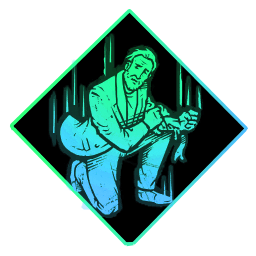
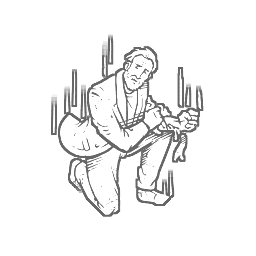
Build de tótems con Estado de flujo; verificación final, validador e informe
- Tótems: entra Estado de flujo (Kwon Tae-young), sale Caza menor
- Iconos de Giro argumental y Estado de flujo al estilo blanco
- Términos es-MX: Desesperanza, distintivo, presiona, acción destacada
- Correcciones de la verificación final (Ganas de vivir, Tenacidad, Resiliencia, usos, textos de builds)
- validar.py: reglas de Agotado, Resistencia, tótems, parejas que se anulan, iconos y términos
- INFORME.md con el estado y los pendientes

diff --git a/datos.js b/datos.js
@@ -19,7 +19,7 @@ window.PERKS = {
   },
   resilience: {
     es: "Resiliencia", en: "Resilience", icon: "iconPerks_resilience.png", dueno: "General",
-    efecto: "Estando herido: <b>+7/8/9 %</b> de velocidad al reparar, curar, saltar ventanas, descolgar, sabotear, purificar/bendecir y abrir puertas y cofres.",
+    efecto: "Estando herido: <b>+7/8/9 %</b> de velocidad al reparar, curar, saltar, descolgar, sabotear, purificar/bendecir y abrir puertas y cofres.",
     coste: "—", uso: "2º · 23,35 %", cambio: "10.2.0 (antes 3/6/9 %)", estado: "ok",
   },
   woo: {
@@ -34,13 +34,13 @@ window.PERKS = {
   },
   deadhard: {
     es: "Fajador", en: "Dead Hard", icon: "iconPerks_DeadHard.png", dueno: "David King",
-    efecto: "Tras ser descolgado, herido y corriendo, pulsa el botón de habilidad: <b>Resistencia durante 0,5 s</b> (aguantas un golpe sin caer).",
+    efecto: "Tras ser descolgado, herido y corriendo, presiona el botón de habilidad activa: <b>Resistencia durante 0,5 s</b> (aguantas un golpe sin caer).",
     coste: "Agotado 60/50/40 s", uso: "5º · 19,08 %", cambio: "6.7.0", estado: "ok",
   },
   wtl: {
     es: "Ganas de vivir", en: "Will to Live", icon: "iconPerks_decisiveStrike.png", dueno: "General (con el capítulo de Halloween: Golpe decisivo, de Laurie)",
-    efecto: "Durante <b>40/50/60 s</b> tras ser descolgado, si el asesino te agarra o te carga, supera una prueba de habilidad para <b>aturdirlo 4 s</b> y escapar. Te conviertes en la Obsesión. Una vez por partida.",
-    coste: "Se desactiva con acciones llamativas, al completarse todos los generadores o tras usarla", uso: "6º · 16,8 %", cambio: "9.4.0 (pasa a ser general y cambia de nombre)", estado: "ok",
+    efecto: "Durante <b>40/50/60 s</b> tras ser descolgado, si el asesino te carga, supera una prueba de habilidad para <b>aturdirlo 4 s</b> y escapar. Te conviertes en la Obsesión. Una vez por partida.",
+    coste: "Se desactiva con acciones destacadas, al completarse todos los generadores o tras usarla", uso: "6º · 16,80 %", cambio: "9.4.0 (pasa a ser general y cambia de nombre)", estado: "ok",
     info: "Si tienes el capítulo de Halloween, en tu juego aparece como <b>Golpe decisivo</b>, ventaja única de Laurie, con el mismo efecto. Sin el capítulo es la ventaja general <b>Ganas de vivir</b> (Will to Live), nombre comprobado en el cliente en español de México.",
   },
   adrenaline: {
@@ -61,7 +61,7 @@ window.PERKS = {
   sprint: {
     es: "Esprint", en: "Sprint Burst", icon: "iconPerks_sprintBurst.png", dueno: "Meg Thomas",
     efecto: "Al empezar a correr: <b>+50 % de Celeridad durante 2 s</b>.",
-    coste: "Agotado 60/50/40 s", uso: "13º · 6,70 %", cambio: "10.1.0 (3 → 2 s)", estado: "ok",
+    coste: "Agotado 60/50/40 s", uso: "14º · 6,70 %", cambio: "10.1.0 (3 → 2 s)", estado: "ok",
   },
   wellmake: {
     es: "Sobreviviremos", en: "We'll Make It", icon: "iconPerks_wellMakeIt.png", dueno: "General",
@@ -80,7 +80,7 @@ window.PERKS = {
   },
   hyperfocus: {
     es: "Hiperconcentración", en: "Hyperfocus", icon: "iconPerks_Hyperfocus.png", dueno: "Rebecca Chambers",
-    efecto: "Cada prueba de habilidad <b>Excelente</b> al reparar o curar da 1 ficha (máx. 6). Por ficha: +4 % de probabilidad y velocidad de la aguja y <b>+10/20/30 %</b> al bonus de la prueba. Pierdes las fichas con una prueba Buena, un fallo o si paras.",
+    efecto: "Cada prueba de habilidad <b>Excelente</b> al reparar o curar da 1 distintivo (máx. 6). Por distintivo: +4 % de probabilidad y velocidad de la aguja y <b>+10/20/30 %</b> al bonus de la prueba. Pierdes los distintivos con una prueba Buena, un fallo o si paras.",
     coste: "—", uso: "19º · 5,01 %", cambio: "Sin cambios recientes", estado: "ok",
   },
   prove: {
@@ -105,12 +105,12 @@ window.PERKS = {
   },
   tenacity: {
     es: "Tenacidad", en: "Tenacity", icon: "iconPerks_tenacity.png", dueno: "David Tapp",
-    efecto: "Derribado: puedes <b>arrastrarte y recuperarte a la vez</b>, te arrastras con <b>+30/40/50 % de Celeridad</b>, tus gruñidos son un 75 % más bajos y no se puede revelar tu aura.",
+    efecto: "Derribado: puedes <b>arrastrarte y recuperarte a la vez</b>, te arrastras con <b>+30/40/50 % de Celeridad</b>, tus gruñidos son un 75 % más bajos y el asesino no ve tu aura.",
     coste: "—", uso: "79º · 1,08 %", cambio: "9.3.0", estado: "ok",
   },
   reassurance: {
     es: "Consuelo", en: "Reassurance", icon: "iconPerks_Reassurance.png", dueno: "Rebecca Chambers",
-    efecto: "A 6 m de un sobreviviente colgado, pulsa el botón de habilidad para <b>pausar su sacrificio 20/25/30 s</b>.",
+    efecto: "A 6 m de un sobreviviente colgado, presiona el botón de habilidad activa para <b>pausar su sacrificio 20/25/30 s</b>.",
     coste: "Una vez por sobreviviente y gancho", uso: "95º · 0,87 %", cambio: "6.2.0", estado: "ok",
   },
   powerstruggle: {
@@ -130,23 +130,24 @@ window.PERKS = {
   },
   innerstrength: {
     es: "Fuerza interior", en: "Inner Strength", icon: "iconPerks_innerStrength.png", dueno: "Nancy Wheeler",
-    efecto: "Cada tótem que purificas te da una carga. Herido, escóndete <b>10/9/8 s</b> en un casillero para gastarla y <b>curarte un estado de salud al instante</b>.",
-    coste: "Una curación por tótem purificado", uso: "37º · 2,44 %", cambio: "7.4.0 (recupera el nombre)", estado: "ok",
+    efecto: "Cada tótem que purificas te da una carga. Herido y sin sufrir Desesperanza, escóndete <b>10/9/8 s</b> en un casillero para gastarla y <b>curarte un estado de salud al instante</b>.",
+    coste: "Una curación por tótem purificado", uso: "38º · 2,44 %", cambio: "7.4.0 (recupera el nombre)", estado: "ok",
   },
   counterforce: {
     es: "Contramedida", en: "Counterforce", icon: "iconPerks_Counterforce.png", dueno: "Jill Valentine",
-    efecto: "Empiezas con 1 ficha y ganas 1 por cada tótem purificado: purificas un <b>25 % más rápido por ficha</b>. Tras purificar, ves el aura del <b>tótem más lejano</b> durante 10/12/14 s.",
+    efecto: "Empiezas con 1 distintivo y ganas 1 por cada tótem purificado: purificas un <b>25 % más rápido por distintivo</b>. Tras purificar, ves el aura del <b>tótem más lejano</b> durante 10/12/14 s.",
     coste: "—", uso: "87º · 0,99 %", cambio: "9.0.0", estado: "ok",
-  },
-  smallgame: {
-    es: "Caza menor", en: "Small Game", icon: "iconPerks_smallGame.png", dueno: "General",
-    efecto: "Ves el aura de los <b>tótems a 10/11/12 m</b>.",
-    coste: "—", uso: "110º · 0,59 %", cambio: "10.2.0 (rediseño: ahora muestra el aura de los tótems)", estado: "ok",
   },
   calmspirit: {
     es: "Espíritu calmado", en: "Calm Spirit", icon: "iconPerks_calmSpirit.png", dueno: "Jake Park",
     efecto: "No espantas a los cuervos ni gritas de dolor. Bendices, purificas y abres cofres <b>en silencio</b> y un <b>8/9/10 % más rápido</b>.",
     coste: "—", uso: "100º · 0,76 %", cambio: "10.2.0 (antes un 40/35/30 % más lento)", estado: "ok",
+  },
+  flowstate: {
+    es: "Estado de flujo", en: "Flow State", icon: "iconPerks_FlowState.png", dueno: "Kwon Tae-young",
+    efecto: "Ganas 1 distintivo por cada generador completado (máx. 5). Por distintivo, <b>bendices y purificas tótems, curas y descuelgas un 13/14/15 % más rápido</b>.",
+    coste: "—", uso: "60º · 1,52 %", cambio: "10.2.0 (antes 8/9/10 % por distintivo)", estado: "ok",
+    info: "Kwon Tae-young es surcoreano (capítulo de 9.5.0). Nombre tomado de la wiki oficial en español; no se encontró en los textos del juego.",
   },
   resurgence: {
     es: "Resurgimiento", en: "Resurgence", icon: "iconPerks_Resurgence.png", dueno: "Jill Valentine",
@@ -160,7 +161,7 @@ window.PERKS = {
   },
   plottwist: {
     es: "Giro argumental", en: "Plot Twist", icon: "iconPerks_PlotTwist.png", dueno: "Nicolas Cage",
-    efecto: "Herido, agachado y quieto: pulsa el botón de habilidad para <b>derribarte en silencio</b>. Te recuperas solo un 25 % más rápido y, al levantarte, quedas <b>sano</b> con <b>+50 % de Celeridad durante 2/3/4 s</b>.",
+    efecto: "Herido, agachado y quieto: presiona el botón de habilidad activa para <b>derribarte en silencio</b>. Te recuperas solo un 25 % más rápido y, al levantarte, quedas <b>sano</b> con <b>+50 % de Celeridad durante 2/3/4 s</b>.",
     coste: "Un uso; se recarga al completarse los generadores", uso: "26º · 3,98 %", cambio: "9.2.0", estado: "ok",
     info: "Nombre tomado de la wiki oficial en español; no se encontró en los textos del juego.",
   },
@@ -193,8 +194,8 @@ window.BUILDS = [
   {
     nombre: "Meta: persecución y antitúnel", tag: "Meta", modo: "ambos", color: "#e11d48",
     perks: ["lithe", "woo", "resilience", "wtl"],
-    para: "Las 4 ventajas de sobreviviente más usadas ahora mismo. Alarga las persecuciones y te protege si te tunelean tras el gancho. Funciona igual en solitario que en coop porque no depende de los compañeros.",
-    sinergia: "Oportunidades te lleva a las ventanas y las salta un 10 % más rápido, lo que facilita el salto rápido que activa <b>Agilidad</b>. Herido, <b>Resiliencia</b> acelera aún más esos saltos. Solo lleva una ventaja que deja Agotado (Agilidad).",
+    para: "Las 3 ventajas de sobreviviente más usadas (Agilidad, Resiliencia y Oportunidades) más Ganas de vivir, la mejor antitúnel. Alarga las persecuciones y te protege si te tunelean tras el gancho. Funciona igual en solitario que en coop porque no depende de los compañeros.",
+    sinergia: "<b>Oportunidades</b> te marca las ventanas a 24 m para que llegues corriendo y hagas el salto rápido que activa <b>Agilidad</b>; además el primer salto es un 10 % más rápido (luego entra en enfriamiento). Herido, <b>Resiliencia</b> acelera todos tus saltos. Solo lleva una ventaja que deja Agotado (Agilidad).",
     como: [
       "<b>Oportunidades</b> te marca las ventanas cercanas: corre hacia ellas.",
       "Al saltar rápido, <b>Agilidad</b> te da 3 s de Celeridad para ganar distancia.",
@@ -245,7 +246,7 @@ window.BUILDS = [
     como: [
       "Avisa por voz en qué generador de los que marca <b>Déjà vu</b> estás.",
       "Reparen de dos en dos para activar <b>Demuestra lo que vales</b>.",
-      "Encadena pruebas Excelentes para acumular fichas de <b>Hiperconcentración</b>.",
+      "Encadena pruebas Excelentes para acumular distintivos de <b>Hiperconcentración</b>.",
       "Herido, <b>Resiliencia</b> te da velocidad extra: sigue reparando.",
     ],
   },
@@ -276,7 +277,7 @@ window.BUILDS = [
     nombre: "Anti-slug (contra dejarte en el suelo)", tag: "Defensa", modo: "ambos", color: "#64748b",
     perks: ["unbreakable", "tenacity", "flipflop", "powerstruggle"],
     para: "Contra asesinos que dejan a todos en el suelo sin colgarlos. Sirve en los dos modos: en solitario te salvas solo y en coop ganas tiempo hasta que llegue un compañero.",
-    sinergia: "<b>Tenacidad</b> te deja recuperarte mientras te arrastras, y esa recuperación llena la barra de <b>Nos vemos</b>: al cargarte ya pasas el 15–25 % que pide <b>Lucha de poderes</b>. Si te levantas con <b>Inquebrantable</b> no hay forcejeo, así que elige: levántate o espera a que te cargue junto a una tarima.",
+    sinergia: "<b>Tenacidad</b> te deja recuperarte mientras te arrastras, y esa recuperación llena la barra de <b>Nos vemos</b>: si te recuperaste lo suficiente, al cargarte ya pasas el 15–25 % de forcejeo que pide <b>Lucha de poderes</b>. Si te levantas con <b>Inquebrantable</b> no hay forcejeo, así que elige: levántate o espera a que te cargue junto a una tarima.",
     como: [
       "En el suelo, <b>Tenacidad</b> te deja arrastrarte rápido mientras te recuperas.",
       "Si el asesino está lejos, levántate con <b>Inquebrantable</b>.",
@@ -286,14 +287,14 @@ window.BUILDS = [
   },
   {
     nombre: "Tótems: purificar para curarte", tag: "Tótems", modo: "solo", color: "#d946ef",
-    perks: ["innerstrength", "counterforce", "smallgame", "calmspirit"],
+    perks: ["innerstrength", "counterforce", "calmspirit", "flowstate"],
     para: "Recorre el mapa purificando tótems: cada uno es una curación guardada para cuando te hieran, y de paso quitas los maleficios del asesino. Ideal en solitario, donde nadie te cura.",
-    sinergia: "<b>Caza menor</b> te enseña los tótems cercanos y <b>Contramedida</b> el más lejano tras cada purificación, y acelera la siguiente un 25 % por ficha. <b>Espíritu calmado</b> suma otro 10 % y purificas en silencio. Cada tótem carga <b>Fuerza interior</b>. Ninguna deja Agotado. No la combines con un compañero que lleve Bendiciones: se quitan los tótems entre ustedes.",
+    sinergia: "Las velocidades se suman: <b>Contramedida</b> +25 % por distintivo, <b>Espíritu calmado</b> +10 % desde el principio y <b>Estado de flujo</b> +15 % por cada generador hecho (hasta +75 %). Al final de la partida borras en segundos un maleficio tardío. Contramedida también te enseña el tótem más lejano, y cada tótem carga <b>Fuerza interior</b>. Estado de flujo empieza en 0: no ayuda en la primera ronda de tótems, pero sí al curar, descolgar y en el final. Ninguna deja Agotado. Si un compañero bendice tótems, compiten por ellos: purifica los que no tengan su bendición.",
     como: [
-      "Al empezar, purifica el primer tótem que marque <b>Caza menor</b>: ya llevas 2 fichas de <b>Contramedida</b>.",
+      "Al empezar, purifica el primer tótem que encuentres (los sitios habituales): ya vas un 35 % más rápido y en silencio.",
       "Sigue el aura del tótem lejano que te enseña <b>Contramedida</b> y encadena purificaciones.",
-      "Cuando te hieran, rompe la línea de visión y métete en un casillero 8 s: <b>Fuerza interior</b> te cura.",
-      "Con los tótems limpios, ponte a reparar: hay como máximo 5 por partida.",
+      "Cuando te hieran, rompe la línea de visión y métete en un casillero 8 s: <b>Fuerza interior</b> te cura (no funciona si sufres Desesperanza).",
+      "Luego repara: cada generador sube <b>Estado de flujo</b>, que acelera curas, rescates y cualquier maleficio que se encienda tarde.",
     ],
   },
   {
@@ -305,14 +306,14 @@ window.BUILDS = [
       "Si te hieren y el asesino se va, escóndete y cúrate con <b>Autocuración</b>.",
       "Al ser descolgado, <b>Resurgimiento</b> te da el 70 %: termina de curarte en unos segundos.",
       "Si te persiguen herido, rompe la línea de visión, agáchate quieto y activa <b>Giro argumental</b>: te levantas sano y con Celeridad.",
-      "Guarda el segundo uso de <b>Giro argumental</b> para cuando se completen los generadores.",
+      "Al completarse los generadores recuperas un segundo uso de <b>Giro argumental</b>.",
     ],
   },
   {
     nombre: "Coop: Bendiciones de equipo", tag: "Coop", modo: "coop", color: "#6366f1",
     perks: ["boonhealing", "boonshadow", "boonexpo", "boonsteadfast"],
     para: "Un solo tótem bendecido convierte su zona (24 m) en refugio para todo el grupo: curación rápida, sigilo, levantarse solo y generadores que no retroceden. Es una de las 5 builds de sobreviviente más usadas en nightlight.gg.",
-    sinergia: "Las 4 comparten el mismo tótem: bendices una vez y todas funcionan. En coop avisa por voz dónde está la bendición para que el grupo se cure y persiga cerca. <b>No</b> la combines con un compañero que lleve Fuerza interior o Contramedida: purifican los tótems que necesitas.",
+    sinergia: "Las 4 comparten el mismo tótem: bendices una vez y todas funcionan. Mientras el grupo se cura y persigue en la zona, <b>Determinación</b> hace que los generadores cercanos retrocedan más lento y se reparen más rápido. En coop avisa por voz dónde está la bendición para que el grupo se cure y persiga cerca. <b>No</b> la combines con un compañero que lleve Fuerza interior o Contramedida: purifican los tótems que necesitas.",
     como: [
       "Bendice un tótem escondido, cerca del centro del mapa o entre dos generadores.",
       "Avisa por voz: los heridos se curan en la zona con <b>Círculo de curación</b> (no te cura a ti mismo).",

diff --git a/index.html b/index.html
@@ -144,12 +144,12 @@ footer a { color: #fca5a5; }
     Cada sobreviviente equipa <b>4 ventajas</b>. Una buena build combina ventajas que se apoyan entre sí:
     unas para <b>persecución</b> (alargarla y que el asesino pierda tiempo), otras de <b>información</b> (auras),
     de <b>antitúnel</b> (protegerte tras el gancho) o de <b>objetivos</b> (generadores, curar, puertas).
-    Pulsa cualquier icono para ver su efecto exacto. Los valores van en formato <b>I/II/III</b>; usa el nivel III cuando lo tengas.
+    Haz clic en cualquier icono para ver su efecto exacto. Los valores van en formato <b>I/II/III</b>; usa el nivel III cuando lo tengas.
     <div class="glosario">
       <div><b>Celeridad:</b> corres más rápido.</div>
       <div><b>Agotado:</b> mientras dura, no se activan otras ventajas que dejan Agotado.</div>
       <div><b>Resistencia:</b> aguantas un golpe que te derribaría.</div>
-      <div><b>Acción llamativa:</b> reparar, curar, purificar, sabotear… desactiva algunas ventajas antitúnel.</div>
+      <div><b>Acción destacada:</b> reparar, curar, purificar, sabotear… desactiva algunas ventajas antitúnel.</div>
       <div><b>Tunelear:</b> que el asesino persiga al recién descolgado.</div>
       <div><b>Slug:</b> que el asesino deje a sobrevivientes derribados en el suelo sin colgarlos.</div>
       <div><b>Solitario:</b> partida con desconocidos, sin hablar. Importan las ventajas de información.</div>

diff --git a/validar.py b/validar.py
@@ -1,0 +1,107 @@
+# Validador de la guía DBD Sobreviviente.
+# Uso: python validar.py   (desde la carpeta de la guía)
+# Sale con código 1 si hay ERRORES; los AVISOS no bloquean.
+# Ejecútalo SIEMPRE antes de subir cambios o de añadir una build.
+import io, os, re, sys, json
+
+BASE = os.path.dirname(os.path.abspath(__file__))
+datos = io.open(os.path.join(BASE, 'datos.js'), encoding='utf-8').read()
+index = io.open(os.path.join(BASE, 'index.html'), encoding='utf-8').read()
+
+errores, avisos = [], []
+def err(m): errores.append(m)
+def avi(m): avisos.append(m)
+
+# --- 1. Ventajas -------------------------------------------------------------
+CAMPOS = ['es', 'en', 'icon', 'dueno', 'efecto', 'coste', 'uso', 'cambio', 'estado']
+perks = {}
+for m in re.finditer(r'^  (\w+): \{\n(.*?)^  \},', datos, re.M | re.S):
+    k, cuerpo = m.group(1), m.group(2)
+    campos = dict(re.findall(r'(\w+): "((?:[^"\\]|\\.)*)"', cuerpo))
+    if k in perks: err(f'Ventaja duplicada: {k}')
+    perks[k] = campos
+    for c in CAMPOS:
+        if not campos.get(c): err(f'{k}: falta el campo «{c}»')
+    if campos.get('estado') not in ('ok', 'duda'): err(f'{k}: estado debe ser "ok" o "duda"')
+    if campos.get('estado') == 'duda' and not campos.get('nota'): err(f'{k}: estado "duda" sin nota')
+    ico = campos.get('icon', '')
+    if ico and not os.path.exists(os.path.join(BASE, 'icons', 'perks', ico)):
+        err(f'{k}: no existe el icono icons/perks/{ico}')
+    if ico == 'sin-icono.svg': avi(f'{k}: usa icono provisional (sin-icono.svg)')
+
+# Clasificación usada por las reglas de sinergia
+def deja_agotado(k): return 'Agotado' in perks[k].get('coste', '') and re.search(r'Agotado \d', perks[k]['coste'])
+# Ventajas que te dan Resistencia a TI tras el descuelgue (se solapan entre sí)
+RESISTENCIA_PROPIA = {'deadhard', 'offrecord'}
+# Ventajas que necesitan PURIFICAR tótems frente a las que necesitan BENDECIRLOS
+PURIFICAN = {'innerstrength', 'counterforce'}
+def bendice(k): return k.startswith('boon')
+# Parejas que se anulan (añade aquí las nuevas que descubras)
+ANULAN = [
+    ({'secondwind', 'resurgence'}, 'Segundo aliento te deja Quebrantado y anula Resurgimiento'),
+    ({'secondwind', 'momentofglory'}, 'las dos usan Quebrantado'),
+]
+
+# --- 2. Builds ---------------------------------------------------------------
+MODOS = {'solo', 'coop', 'ambos'}
+nombres = set()
+bloques = re.split(r'\n  \{\n    nombre: ', datos.split('window.BUILDS = [', 1)[1])[1:]
+if not bloques: err('No se encontró ninguna build')
+for b in bloques:
+    nombre = re.match(r'"([^"]+)"', b).group(1)
+    if nombre in nombres: err(f'Build duplicada: {nombre}')
+    nombres.add(nombre)
+    modo = re.search(r'modo: "(\w+)"', b)
+    if not modo or modo.group(1) not in MODOS: err(f'«{nombre}»: modo inválido (solo/coop/ambos)')
+    if not re.search(r'color: "#[0-9a-fA-F]{6}"', b): err(f'«{nombre}»: color inválido')
+    for c in ('tag', 'para', 'sinergia'):
+        if not re.search(c + r': "[^"]+"', b): err(f'«{nombre}»: falta «{c}»')
+    ks = re.findall(r'"(\w+)"', re.search(r'perks: \[([^\]]*)\]', b).group(1))
+    if len(ks) != 4: err(f'«{nombre}»: tiene {len(ks)} ventajas (deben ser 4)')
+    if len(set(ks)) != len(ks): err(f'«{nombre}»: ventaja repetida')
+    faltan = [k for k in ks if k not in perks]
+    if faltan: err(f'«{nombre}»: ventajas inexistentes {faltan}'); continue
+    ag = [k for k in ks if deja_agotado(k)]
+    if len(ag) > 1: err(f'«{nombre}»: {len(ag)} ventajas que dejan Agotado {ag} (máx. 1)')
+    res = [k for k in ks if k in RESISTENCIA_PROPIA]
+    if len(res) > 1: err(f'«{nombre}»: Resistencia solapada {res}')
+    if any(k in PURIFICAN for k in ks) and any(bendice(k) for k in ks):
+        err(f'«{nombre}»: mezcla ventajas que purifican y que bendicen tótems')
+    for par, motivo in ANULAN:
+        if par <= set(ks): err(f'«{nombre}»: {sorted(par)} se anulan: {motivo}')
+    como = re.search(r'como: \[(.*?)\n    \]', b, re.S)
+    n = len(re.findall(r'^      "', como.group(1), re.M)) if como else 0
+    if not 3 <= n <= 4: err(f'«{nombre}»: «como» debe tener 3-4 pasos (tiene {n})')
+    # Cada ventaja de la build debe nombrarse en el texto con su nombre es-MX
+    texto = b
+    for k in ks:
+        corto = perks[k]['es'].replace('Bendición: ', '')
+        if corto not in texto: avi(f'«{nombre}»: no menciona «{corto}» en el texto')
+usadas = set(re.findall(r'"(\w+)"', ' '.join(re.findall(r'perks: \[([^\]]*)\]', datos))))
+for k in perks:
+    if k not in usadas: avi(f'{k}: no está en ninguna build (solo sale en la tabla)')
+
+# --- 3. Idioma (es-MX) y PTB ---------------------------------------------------
+PROHIBIDO = {
+    r'\bsuperviviente': 'sobreviviente', r'\bpal[ée]s?\b': 'tarima', r'\bAgotamiento\b': 'Agotado',
+    r'\btaquilla': 'casillero', r'\b(vais|podéis|tenéis|estáis|vosotros|avisáis|quitáis)\b': 'forma de México (ustedes)',
+    r'\bPTB\b': 'no mencionar el PTB en la guía', r'\bLo conseguiremos\b': 'Sobreviviremos',
+    r'\bHasta otra\b': 'Nos vemos', r'\bReafirmación\b': 'Consuelo', r'\bLucha intensa\b': 'Lucha de poderes',
+    r'\bfichas?\b': 'distintivo', r'\bQuebrantad[oa]': 'Desesperanza (estado Broken)',
+    r'\b[Pp]ulsa\b': 'presiona / haz clic', r'\bllamativas?\b': 'acción destacada',
+}
+for nombre_arch, txt in (('datos.js', datos), ('index.html', index)):
+    sin_coment = '\n'.join(l for l in txt.splitlines() if not l.strip().startswith('//'))
+    for pat, bien in PROHIBIDO.items():
+        for m in re.finditer(pat, sin_coment):
+            err(f'{nombre_arch}: «{m.group(0)}» → usa {bien}')
+
+# --- 4. JS sintácticamente cargable (comillas y llaves equilibradas) ------------
+if datos.count('{') != datos.count('}'): err('datos.js: llaves { } desequilibradas')
+if datos.count('[') != datos.count(']'): err('datos.js: corchetes [ ] desequilibrados')
+
+print(f'Ventajas: {len(perks)} · Builds: {len(bloques)}')
+for a in avisos: print('AVISO  ', a)
+for e in errores: print('ERROR  ', e)
+print('OK: sin errores' if not errores else f'{len(errores)} error(es)')
+sys.exit(1 if errores else 0)

diff --git a/INFORME.md b/INFORME.md
@@ -1,0 +1,88 @@
+# Informe de cierre — Guía DBD Sobreviviente (10-oct-2026)
+
+## Estado
+
+- **Parche:** 10.2.0 Mid-Chapter (6-oct-2026), en vivo. No hay parche ni hotfix posterior a fecha del 10-oct-2026.
+- **Contenido:** 11 builds y 34 ventajas.
+- **Idioma:** nombres y términos del cliente en español de México.
+- **Validación:** independiente, hecha por un agente contra el texto del cliente 10.1.2, las notas oficiales 10.2.0 en vivo (Steam) y la localización es-MX. Se corrigieron todos los errores que encontró.
+- **Validador automático:** `python validar.py` da 0 errores.
+
+## Builds
+
+| Build | Modo | Ventajas |
+|---|---|---|
+| Meta: persecución y antitúnel | Ambos | Agilidad, Oportunidades, Resiliencia, Ganas de vivir |
+| Solitario: información | Solitario | Familia, Vínculo, Déjà vu, Esprint |
+| Solitario: antitúnel | Solitario | Ganas de vivir, Extraoficialmente, Agilidad, Inquebrantable |
+| Solitario sin DLC | Solitario | Ganas de vivir, Resiliencia, Déjà vu, Familia |
+| Coop: generadores en equipo | Coop | Demuestra lo que vales, Déjà vu, Resiliencia, Hiperconcentración |
+| Coop: rescate y curación | Coop | Tiempo prestado, Sobreviviremos, Conocimientos de botánica, Consuelo |
+| Coop: final de partida | Coop | Adrenalina, Esperanza, ¡Despierta!, Tiempo prestado |
+| Anti-slug | Ambos | Inquebrantable, Tenacidad, Nos vemos, Lucha de poderes |
+| Tótems: purificar para curarte | Solitario | Fuerza interior, Contramedida, Espíritu calmado, Estado de flujo |
+| Autocuración | Solitario | Resurgimiento, Autocuración, Conocimientos de botánica, Giro argumental |
+| Coop: Bendiciones de equipo | Coop | Bendición: Círculo de curación, Paso de las sombras, Exponencial, Determinación |
+
+## Reglas de las builds (las comprueba `validar.py`)
+
+1. **4 ventajas distintas, todas definidas en `PERKS`.** Cada una tiene que tener un icono en `icons/perks/`.
+2. **Como máximo UNA ventaja que deje Agotado.** Se detecta por «Agotado N s» en el campo `coste`.
+3. **Sin Resistencias propias que se solapen.** La lista es `RESISTENCIA_PROPIA`: Fajador y Extraoficialmente.
+4. **No mezclar ventajas que purifican tótems con ventajas que los bendicen.** Las que purifican están en `PURIFICAN`; las Bendiciones son las claves que empiezan por `boon`.
+5. **Sin parejas que se anulan.** La lista es `ANULAN`: Segundo aliento con Resurgimiento o con Momento de gloria.
+6. **Campos obligatorios de cada build:** modo `solo`, `coop` o `ambos`; color hexadecimal; `tag`, `para` y `sinergia`; entre 3 y 4 pasos en `como`.
+7. **El texto de la build nombra cada una de sus ventajas.** Si falta alguna, sale un aviso.
+8. **Términos prohibidos**, sustituidos por los del cliente es-MX:
+
+   | Prohibido | Correcto |
+   |---|---|
+   | superviviente | sobreviviente |
+   | palé | tarima |
+   | Agotamiento | Agotado |
+   | taquilla | casillero |
+   | ficha | distintivo |
+   | Quebrantado | Desesperanza |
+   | pulsa | presiona |
+   | acción llamativa | acción destacada |
+   | formas de vosotros | ustedes |
+   | nombres de España | nombres es-MX |
+   | PTB | (no se menciona) |
+
+**Al añadir una ventaja o build nueva:**
+- Si descubres una incompatibilidad nueva, añádela a `ANULAN`, `RESISTENCIA_PROPIA` o `PURIFICAN`.
+- Ejecuta `python validar.py` antes de subir. Sale con código 1 si hay errores.
+
+## Correcciones de la verificación final
+
+- **Términos es-MX:**
+  - Quebrantado → **Desesperanza**.
+  - ficha → **distintivo**.
+  - pulsa → **presiona el botón de habilidad activa**.
+  - acción llamativa → **acción destacada**.
+- **Ganas de vivir:** se activa solo cuando el asesino te carga, no al agarrarte.
+- **Tenacidad:** «el asesino no ve tu aura».
+- **Resiliencia:** acelera todos los saltos, no solo los de ventanas.
+- **Puestos de uso duplicados:** Esprint pasa al 14º y Fuerza interior al 38º.
+- **Meta:** ya no dice «las 4 más usadas». Ahora: las 3 más usadas + Ganas de vivir. Además se corrigió la sinergia de Oportunidades con Agilidad (el +10 % tiene enfriamiento).
+- **Autocuración:** el segundo uso de Giro argumental se recupera al completarse los generadores; no se guarda.
+- **Tótems:** ya no supone que eliges las ventajas de tus compañeros en solitario.
+- **Anti-slug:** Nos vemos solo llega al umbral de Lucha de poderes si te recuperaste lo suficiente.
+- **Build de tótems:** entra **Estado de flujo** (Kwon Tae-young, surcoreano; 13/14/15 % por distintivo desde 10.2.0) y sale Caza menor, que se solapaba con Contramedida.
+- **Iconos:** Giro argumental y Estado de flujo se convirtieron al estilo blanco de los demás.
+
+## Pendiente o no verificable (no bloquea)
+
+- **Bendición: Determinación:** no hay icono descargable; usa `sin-icono.svg`.
+- **Nombres solo confirmados en la wiki ES** (no están en el volcado es-MX de 2022):
+  - Hiperconcentración
+  - Consuelo
+  - Fuerza interior
+  - Estado de flujo
+  - Giro argumental
+  - Bendición: Determinación
+
+  El usuario confirmó «Ganas de vivir» y su icono en su juego.
+- **Extraoficialmente:** se sigue el texto del cliente. Las notas 9.2.0 decían otra cosa sobre los generadores y las marcas de arañazos.
+- **Uso (nightlight.gg):** son 28 días casi todos anteriores al 10.2.0. Las ventajas mejoradas en 10.2.0 pueden estar subiendo.
+- **Fajador:** está en la tabla pero en ninguna build, a propósito: se solapa con Extraoficialmente.

diff --git a/NOTAS.md b/NOTAS.md
@@ -10,6 +10,7 @@
 - **Bloqueos:** wiki.gg, Fandom y nightlight bloquean curl (403). La API dbd.tricky.lol sí funciona: `/api/perks?role=survivor&locale=es`, `/api/versions`.
 - **PTB:** se ignora; solo cuentan las notas y valores del juego en vivo.
 - **Al actualizar:** revisa `/api/versions` y las notas del KB oficial (forums.bhvr.com/dead-by-daylight/kb) en busca de un parche posterior a 10.2.0.
-- **Revalidado 10-oct-2026 (agente):** no hay parche posterior al 10.2.0 (notas en Steam y en el foro, discusión 472827). We'll Make It se llama «Lo conseguiremos» en el cliente (no «Sobreviviremos»). Tiempo prestado: el cambio del PTB se revirtió. Extraoficial: las notas 9.2.0 y el texto del cliente se contradicen (puertas y arañazos). Se quitaron dos inferencias que no venían de fuentes oficiales: «sin penalización al usar botiquín» (Botánica) y «se cancela con acciones llamativas» (Tiempo prestado).
+- **Revalidado 10-oct-2026 (agente):** no hay parche posterior al 10.2.0 (notas en Steam y en el foro, discusión 472827). We'll Make It: «Lo conseguiremos» es el nombre de España; en es-MX es «Sobreviviremos». Tiempo prestado: el cambio del PTB se revirtió. Extraoficial: las notas 9.2.0 y el texto del cliente se contradicen (puertas y arañazos). Se quitaron dos inferencias que no venían de fuentes oficiales: «sin penalización al usar botiquín» (Botánica) y «se cancela con acciones llamativas» (Tiempo prestado).
 - **Builds por modo:** campo `modo` (solo / coop / ambos), con filtro en la página y un campo `sinergia` en cada build. Reglas: una sola ventaja de Agotamiento por build y nada de Resistencias que se solapen (por eso Fajador no va con Extraoficial).
 - **Builds de tótems, autocuración y Bendiciones (10-oct-2026):** 11 ventajas nuevas validadas por agente (valores 10.1.2 + notas 10.2.0 en vivo; nombres es-MX del volcado, Steam latam y wiki ES). Icono de Giro argumental descargado de github.com/N7Maxxi/dbd-assets. Bendición: Determinación (Boon: Steadfast, 10.1.0) no tiene icono descargable: usa `sin-icono.svg`. Descartado por inútil: Círculo de curación no cura a uno mismo (desde 6.7.0) y no hay ventaja que cure corriendo en persecución.
+- **Validador:** `python validar.py` comprueba las reglas de builds, iconos y términos es-MX. Ejecútalo siempre antes de subir. El resumen del cierre del 10-oct-2026 está en `INFORME.md`.

diff --git a/README.md b/README.md
@@ -7,3 +7,5 @@ Guía en español con 11 builds de 4 ventajas para Superviviente, para jugar en 
 - **Fuentes:** notas oficiales de Behaviour (KB), archivos del juego vía dbd.tricky.lol (nombres del cliente en español de México) y estadísticas de uso de nightlight.gg (últimos 28 días).
 
 Dead by Daylight y sus iconos son propiedad de Behaviour Interactive. Esta es una guía de fans sin ánimo de lucro.
+
+- **Antes de subir cambios:** `python validar.py` (reglas de builds, iconos y términos en español de México). Informe de cierre: `INFORME.md`.
